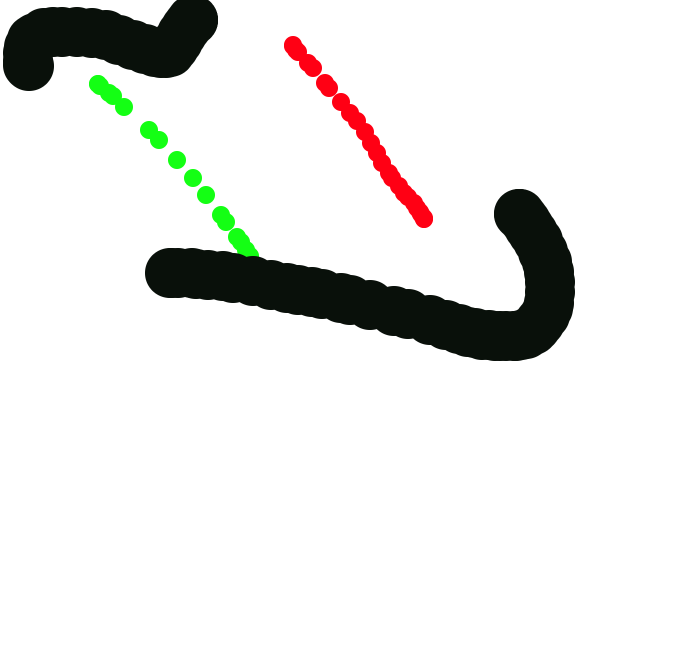
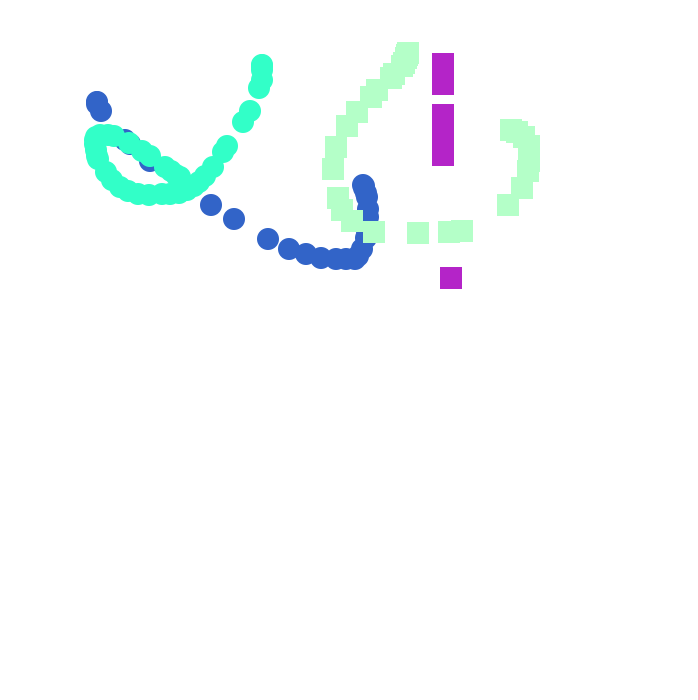
end appli

Changed region(s): [[0.0, 0.0, 0.8424, 0.5547]]

diff --git a/src/main/java/fx/georges/javafxcolor/controller/ColorController.java b/src/main/java/fx/georges/javafxcolor/controller/ColorController.java
@@ -6,10 +6,7 @@ import javafx.fxml.FXML;
 import javafx.fxml.Initializable;
 import javafx.scene.canvas.Canvas;
 import javafx.scene.canvas.GraphicsContext;
-import javafx.scene.control.CheckBox;
-import javafx.scene.control.Label;
-import javafx.scene.control.Slider;
-import javafx.scene.control.TextField;
+import javafx.scene.control.*;
 import javafx.scene.image.Image;
 import javafx.scene.layout.Pane;
 import javafx.embed.swing.SwingFXUtils;
@@ -24,7 +21,7 @@ import javax.imageio.ImageIO;
 public class ColorController implements Initializable{
 
     public Platform platform;
-    final Color currentColor = new Color(20,20, 20);
+    final Color currentColor = new Color(50,100, 200);
 
     //variable on change color top pan
     @FXML
@@ -46,13 +43,19 @@ public class ColorController implements Initializable{
     @FXML
     private Slider blueSlider;
 
-    //variable for drawing bottom pan
+    //variable for drawing in canvas
     @FXML
     private Canvas canvas;
     @FXML
     private TextField brushSize;
     @FXML
     private CheckBox eraser;
+    @FXML
+    private Slider sliderdraw;
+    @FXML
+    private RadioButton radioFormSquare;
+    @FXML
+    private RadioButton radioFormRound;
 
 
     @Override
@@ -71,20 +74,31 @@ public class ColorController implements Initializable{
 
         //drawing fonction
         String s = currentColor.getHexValue();
+
+        brushSize.setText(String.valueOf(5));
+        int currentChangeSize = (int) sliderdraw.getValue();
+        sliderdraw.valueProperty().addListener((observableValue, number, t1) -> {
+            changeFromSliderToField(currentChangeSize, sliderdraw,brushSize );
+        });
+
         GraphicsContext gc = canvas.getGraphicsContext2D();
         canvas.setOnMouseDragged(e -> {
             double size = Double.parseDouble(brushSize.getText());
             double x = e.getX() - size / 2;
             double y = e.getY() - size / 2;
-        if(eraser.isSelected()){
-            gc.clearRect(x,y,size,size);
-        }else{
+
             //arguments object Color = type double and range between 0 and 1 : (0=0, 1=255)
-            javafx.scene.paint.Color drawingColor = new javafx.scene.paint.Color(((double)currentColor.getRed())/255, ((double) currentColor.getGreen())/255, ((double) currentColor.getBlue())/255, 1);
-            gc.setFill(drawingColor);
-            //System.out.println("mycolor :"+ drawingColor);
-            gc.fillOval(x, y, size, size);
-        }
+            javafx.scene.paint.Color drawingColor = new javafx.scene.paint.Color(((double) currentColor.getRed()) / 255, ((double) currentColor.getGreen()) / 255, ((double) currentColor.getBlue()) / 255, 1);
+
+            if (eraser.isSelected()) {
+                gc.clearRect(x, y, size, size);
+            } else if (radioFormRound.isSelected()) {
+                gc.setFill(drawingColor);
+                gc.fillOval(x, y, size, size);
+            } else if (radioFormSquare.isSelected()) {
+                gc.setFill(drawingColor);
+                gc.fillRect(x, y, size, size);
+            };
         });
     }
 
